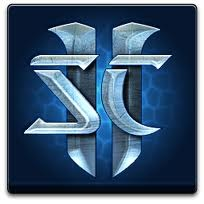
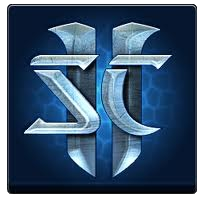
Inject beauty
Images, slightly less eye-stabbing colors. And quashing the bug that you could only open dialogs once.

Changed region(s): [[0.0, 0.0, 1.0, 0.9706]]

diff --git a/BrickShell/js/main.js b/BrickShell/js/main.js
@@ -55,8 +55,8 @@ require([
     }
     function matchZoom (li, tMod, container) {
         var mMod = li.matchVar;
-        $("#editorModal", container).remove(); //clean up prev
-        $("#loeModal", container).remove(); //clean up prev
+        $(".editorModal", container).remove(); //clean up prev
+        $(".loeModal", container).remove(); //clean up prev
         function pinv(key) { return mMod.get(key) <= 0; }
         function val(key) { return mMod.get(key); }
         if (pinv("player1") || pinv("player2") || !pinv("winner")) {
@@ -65,13 +65,14 @@ require([
             return;
         }
         var matchTmpl = document.getElementById("editorTemplate");
-        matchTmpl.content.querySelector("#p1win").setAttribute("name", tMod.get("players").get(mMod.get("player1")).get("name"));
-        matchTmpl.content.querySelector("#p1win").setAttribute("race", tMod.get("players").get(mMod.get("player1")).get("race"));
-        matchTmpl.content.querySelector("#p1win").setAttribute("onclick", "winMe('player1')");
-        matchTmpl.content.querySelector("#p2win").setAttribute("name", tMod.get("players").get(mMod.get("player2")).get("name"));
-        matchTmpl.content.querySelector("#p2win").setAttribute("race", tMod.get("players").get(mMod.get("player2")).get("race"));
-        matchTmpl.content.querySelector("#p2win").setAttribute("onclick", "winMe('player2')");
-        matchTmpl.content.querySelector("#editTime").setAttribute("value", mMod.get("schedule"));
+        matchTmpl.content.querySelector(".p1win").setAttribute("name", tMod.get("players").get(mMod.get("player1")).get("name"));
+        matchTmpl.content.querySelector(".p1win").setAttribute("race", tMod.get("players").get(mMod.get("player1")).get("race"));
+        matchTmpl.content.querySelector(".p1win").setAttribute("onclick", "winMe('player1')");
+        matchTmpl.content.querySelector(".p2win").setAttribute("name", tMod.get("players").get(mMod.get("player2")).get("name"));
+        matchTmpl.content.querySelector(".p2win").setAttribute("race", tMod.get("players").get(mMod.get("player2")).get("race"));
+        matchTmpl.content.querySelector(".p2win").setAttribute("onclick", "winMe('player2')");
+        //input used instead of id because ids seem to break once you instantiate a template
+        matchTmpl.content.querySelector(".editTime").setAttribute("value", mMod.get("schedule"));
         //WARNING: Accursed globals!
         winMe = function (who) {
             mMod.set("winner", mMod.get(who));
@@ -81,13 +82,13 @@ require([
             var whom = (who == 1 ? "p1approves" : "p2approves");
             var notWhom = (whom != 1 ? "p1approves" : "p2approves");
             mMod.set(whom, true);
-            mMod.set("schedule", container.querySelector("#editTime").value);
+            mMod.set("schedule", container.querySelector(".editTime").value);
             if (mMod.get(notWhom))
                 mMod.set("confirmed", true);
             mMod.save();
         };
-        matchTmpl.content.querySelector("#p1Conf").setAttribute("onclick", "doTheConf(1)");
-        matchTmpl.content.querySelector("#p2Conf").setAttribute("onclick", "doTheConf(2)");
+        matchTmpl.content.querySelector(".p1Conf").setAttribute("onclick", "doTheConf(1)");
+        matchTmpl.content.querySelector(".p2Conf").setAttribute("onclick", "doTheConf(2)");
         container.appendChild(matchTmpl.content.cloneNode(true));
     }
     var TournamentPageView = Backbone.View.extend({
@@ -95,26 +96,26 @@ require([
 	        },
 		render: function() {
 			this.$el.empty();
-            var pgTmpl = $("#pageTemplate")[0];
+            var pgTmpl = $(".pageTemplate")[0];
             this.el.appendChild(pgTmpl.content.cloneNode(true));
-            $("#pageDesc", this.el).html(this.model.get("desc") + "<br />" +  timeStr(this.model));
-            $("#pageImg", this.el)[0].src = "img/sc2.png";//this.model.get("type"));
-            var listTarget = $("#pageListPane", this.el);
+            $(".pageDesc", this.el).html(this.model.get("desc") + "<br />" +  timeStr(this.model));
+            $(".pageImg", this.el)[0].src = "img/" + this.model.get("type") + ".png";
+            var listTarget = $(".pageListPane", this.el);
             if (this.model.get("state") == "signup") {
                 listTarget.remove();
-                var pg2Tmpl = $("#tournamentSignup")[0];
+                var pg2Tmpl = $(".tournamentSignup")[0];
                 var thisModel = this.model;
                 //WARNING! Accursed globals!
                 signHere = function () {
                     App.addPlayer(
                         thisModel,
-                        document.getElementById("signName").value,
-                        document.getElementById("signCode").value,
-                        document.getElementById("signRace").value
+                        $(".signName")[0].value,
+                        $(".signCode")[0].value,
+                        $(".signRace")[0].value
                     );
-                    document.getElementById('signer').hide();
+                    $('signer')[0].hide();
                 }
-                pg2Tmpl.content.querySelector("#confirmSign").setAttribute("onclick", "signHere()");
+                pg2Tmpl.content.querySelector(".confirmSign").setAttribute("onclick", "signHere()");
                 this.el.appendChild(pg2Tmpl.content.cloneNode(true));
                 return this;
             }
@@ -163,7 +164,7 @@ require([
             listItem.title = this.model.get("name");
             listItem.subTitle = this.model.get("subTitle");
             listItem.time = this.model.get("time");
-            listItem.image = "img/sc2.png"; //this.model.get("name");
+            listItem.image = "img/" + this.model.get("type") + ".png";
             var thisModel = this.model;
             listItem.onclick = function() { diveInto(thisModel); }
 			this.el.appendChild(listItem);

diff --git a/BrickShell/index.html b/BrickShell/index.html
@@ -23,41 +23,41 @@
     <x-card id="contentPane"> </x-card>
 </x-deck>
 -->
-<template id="pageTemplate">
-<img id="pageImg" />
-<p id="pageDesc"></p><br />
-<x-layout id="pageListPane"></x-layout>
+<template class="pageTemplate">
+<img class="pageImg" />
+<p class="darker" class="pageDesc"></p><br />
+<x-layout class="pageListPane"></x-layout>
 </template>
 <template id="lackOfEditorTemplate">
-    <x-modal overlay id="loeModal"> <x-layout class='dialogish'>
+    <x-modal overlay class="loeModal"> <x-layout class='dialogish'>
         <p>I'm sorry, but this match is not editable.</p>
-        <button id='byebye' onclick='document.getElementById("loeModal").hide();'>Back</button>
+        <button class='byebye' onclick='$(".loeModal")[0].hide();'>Back</button>
     </x-layout> </div></x-modal>
 </template>
 <template id="editorTemplate">
-    <x-modal overlay id="editorModal"><x-layout id="editorContentPane" class='dialogish'>
+    <x-modal overlay class="editorModal"><x-layout id="editorContentPane" class='dialogish'>
         <p>Report Winner</p>
-        <a-player id='p1win' name='unnamed' race='R'></a-player><a-player id='p2win' name='unnamed' race='R' ></a-player>
-        <p>Attempt Scheduling</p><input id='editTime' type='datetime-local'/>
-        <button id='p1Conf' type='button'>Player 1 Confirms</button>
-        <button id='p2Conf' type='button'>Player 2 Confirms</button>
-        <button id='byebye' type='button' onclick='document.getElementById("editorModal").hide();'>Back</button>
+        <a-player class='p1win' name='unnamed' race='R'></a-player><a-player class='p2win' name='unnamed' race='R' ></a-player>
+        <p>Attempt Scheduling</p><input class='editTime' type='datetime-local'></input>
+        <button class='p1Conf' type='button'>Player 1 Confirms</button>
+        <button class='p2Conf' type='button'>Player 2 Confirms</button>
+        <button class='byebye' type='button' onclick='$(".editorModal")[0].hide();'>Back</button>
     </x-layout> </x-modal>
 </template>
-<template id="tournamentSignup">
-<button onclick="document.getElementById('signer').show();">Sign me up!</button>
-<x-modal hidden overlay id="signer"> <x-layout class='dialogish'>
-    <input id="signName" type="text" placeholder="Char name"/>
-    <input id="signCode" type="text" placeholder="Char code"/>
-    <select id="signRace">
-        <option value="R">Random</option>
-        <option value="T">Terran</option>
-        <option value="Z">Zerg</option>
-        <option value="P">Protoss</option>
+<template class="tournamentSignup">
+<button onclick="$('signer')[0].show();">Sign me up!</button>
+<x-modal hidden overlay class="signer"> <x-layout class='dialogish'>
+    <input class="signName" type="text" placeholder="Char name"/>
+    <input class="signCode" type="text" placeholder="Char code"/>
+    <select class="signRace">
+        <option value="R"><img src="img/randomSml.png"/>Random</option>
+        <option value="T"><img src="img/terranSml.png"/>Terran</option>
+        <option value="Z"><img src="img/zergSml.png"/>Zerg</option>
+        <option value="P"><img src="img/tossSml.png"/>Protoss</option>
     </select>
     <!-- Can't seem to get them in a justified row :( . Probably requires some CSS tricks -->
-    <button id="confirmSign">Sign up</button>
-    <button onclick="document.getElementById('signer').hide();">Never mind</button>
+    <button class="confirmSign">Sign up</button>
+    <button onclick="$('signer')[0].hide();">Never mind</button>
 </x-layout> </x-modal>
 </template>
 </body>

diff --git a/BrickShell/js/player-element.js b/BrickShell/js/player-element.js
@@ -3,9 +3,17 @@ define([
   'underscore', 
   'xtag', 
 ], function($, _, xTag){ 
+    function getImage(r) {
+        switch (r) {
+            case 'T': return "img/terran.png";
+            case 'Z': return "img/zerg.png";
+            case 'P': return "img/toss.png";
+            default : return "img/random.png";
+        }
+    }
     function doMe(ele) {
         //build the element from its custom properties
-        ele.innerHTML = "<p>" + ele.name + " (" + ele.race + ")</p>";
+        ele.innerHTML = "<p>"+ele.name+"</p><img src=\""+getImage(ele.race)+"\" />";
     }
     xTag.register('a-player', {
         extends: 'div',

diff --git a/BrickShell/js/data-structures.js b/BrickShell/js/data-structures.js
@@ -5,6 +5,7 @@ define([
   'backbone', 
 ], function($, _, Backbone){ 
     //Server Communication functions
+    //TODO: If caching is enabled (by default, obviously) the app will never update because the browser feeds it a cached version. Need to work around this...
     //NOTE: index/pId changed to uniform "id" attr for theorized backbone compatibility
     var baseUrl = "http://ec2-184-169-240-202.us-west-1.compute.amazonaws.com";
     function loadTFromUrl(urlFragment, tournamentCollection) {

diff --git a/BrickShell/js/list-element.js b/BrickShell/js/list-element.js
@@ -6,7 +6,7 @@ define([
     function doMe(ele) {
         //build the element from its custom properties
         ele.innerHTML = "<p>" + ele.title + " : " + ele.subTitle + " ; " + ele.time + "</p>"
-            + ( ele.image ? "<img src=\"" + ele.image + "\" />" : "");
+            + ( ele.image ? "<img class='listItemImage' src=\"" + ele.image + "\" />" : "");
     }
     xTag.register('a-listItem', {
         extends: 'div',

diff --git a/BrickShell/custom.css b/BrickShell/custom.css
@@ -1,8 +1,16 @@
 p {
-    color: palegoldenrod
+    color: white
+}
+p.darker {
+    font-weight: bold;
+    color: darkred;
+}
+.listItemImage {
+    width: 128px
+    height: 128px
 }
 .listItem {
-    background-color: lightsteelblue;
+    background-color: #00202F;
     border-style: groove;
     border-color: lightsteelblue;
     border-width: 4px;
